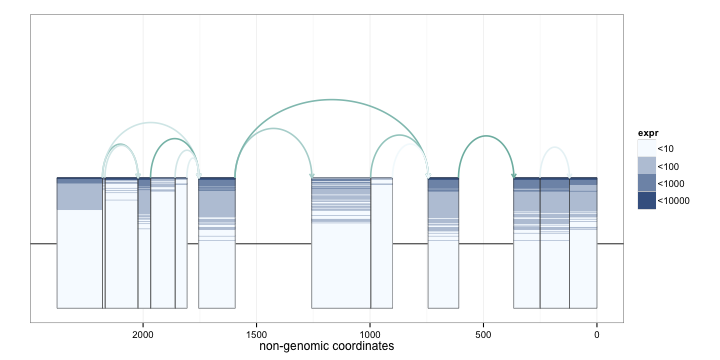
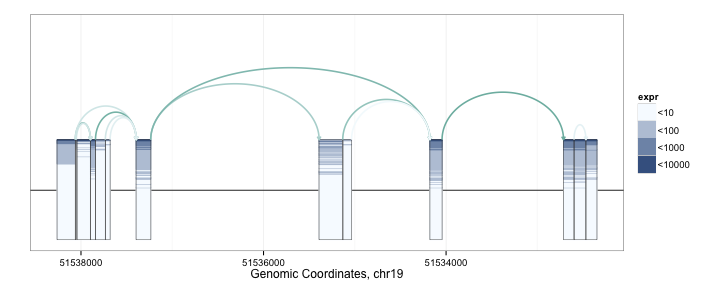
update README

diff --git a/README.md b/README.md
@@ -5,20 +5,82 @@ spliceclust
 
 ## Contents
 1. [Introduction](#intro)
-2. [Plotting Examples](#plotting)
+2. [SpliceGraHM Examples](#splicegrahm)
+3. [SpliceGraLP Examples](#splicegralp)
+4. [SplicePCA Examples](#splicepca)
 
 
 ## <a name="intro"></a> Introduction
 ___Note that this document is still under construction.___  
 
-This package may be used to plot expression across exons and splice junctions
-across a large cohort of samples.
+This package may be used to plot exon and splice junction coverage across a large cohort
+of RNA-seq samples. The plotting approach is based on the idea of transposing
+expression heatmaps on splicing diagrams. The plots are generated using the `ggplot2` and
+`ggbio` packages.
 
 
 
-## <a name="plotting"></a> Plotting Examples
+## <a name="splicegrahm"></a> SpliceGraHM Examples
 
-First we must construct a `concomp` object.
+First we must construct a `concomp` object from a `GRangesList` object with exon and junction
+boundaries and corresponding coverage values. For illustration purposes, we use a previously
+constructed `GRanges` object, `klk12_gr1`, containing annotation information for the KLK12 gene
+locus along with coverage for 177 lung squamous cell carcinoma samples.  
+
+The exon and junction boundaries, and the corresponding kind label are given by:  
+
+
+```r
+ranges(klk12_gr1)
+```
+
+```
+## IRanges of length 25
+##         start      end width names
+## [1]  51532348 51532468   121 33127
+## [2]  51532468 51532598   131 33128
+## [3]  51532469 51532597   129 33129
+## [4]  51532598 51532713   116 33130
+## [5]  51532713 51534044  1332 33131
+## ...       ...      ...   ...   ...
+## [21] 51537896 51538051   156 33147
+## [22] 51537896 51538062   167 33148
+## [23] 51537897 51538040   144 33149
+## [24] 51538051 51538061    11 33150
+## [25] 51538062 51538261   200 33151
+```
+
+```r
+mcols(klk12_gr1)$kind
+```
+
+```
+##  [1] "e" "j" "e" "e" "j" "e" "j" "j" "j" "e" "e" "j" "e" "j" "j" "j" "j"
+## [18] "e" "e" "e" "j" "j" "e" "e" "e"
+```
+
+In addition to `kind`, the `klk12_gr1` metadata columns also include the gene name (`gIdx`),
+gene boundaries (`gStart`, `gStop`), and coverage values for the 177 samples.  
+
+
+```r
+mcols(klk12_gr1)[1:5, 1:6]
+```
+
+```
+## DataFrame with 5 rows and 6 columns
+##          gIdx    gStart     gStop        kind        s1        s2
+##   <character> <numeric> <numeric> <character> <numeric> <numeric>
+## 1    gene9317  51532348  51538261           e   2.60331   5.32231
+## 2    gene9317  51532348  51538261           j   0.00000   0.00000
+## 3    gene9317  51532348  51538261           e   2.59690  10.37210
+## 4    gene9317  51532348  51538261           e   2.15517   7.28448
+## 5    gene9317  51532348  51538261           j   0.00000   7.00000
+```
+
+To construct the `concomp` (connected component) object for analysis, we first convert the
+`GRanges` object into a `GRangesList` object of length 2, corresponding to exon and junction
+information.  
 
 
 ```r
@@ -26,30 +88,184 @@ klk12_gl <- split(klk12_gr1, mcols(klk12_gr1)$kind)
 klk12_cc <- concomp(klk12_gl)
 ```
 
-We first demonstrate the default and basic SpliceGraHM (Splice Graph Heat Map) plotting procedure.
+
+We first demonstrate the default and __basic SpliceGraHM__ (Splice Graph Heat Map) plotting procedure.
 
 
 ```r
 splicegrahm(klk12_cc)
 ```
 
-![plot of chunk unnamed-chunk-3](figure/unnamed-chunk-3-1.png) 
+![plot of chunk unnamed-chunk-5](figure/unnamed-chunk-5-1.png) 
 
 In the plot above, each box arranged horizontally corresponds to a contiguous exonic region
-along the genome. 
+along the genome. Each box is colored by 177 horizontal lines, showing the expression level
+for the 177 samples being analyzed. Note that the exons are plotted along genomic coordinates.  
 
+In addition to the boxes, the plot contains arrows which correspond to a splicing events with
+sufficient support in the data (e.g. at least 5 samples each with at least 5 reads spanning the splice
+junction). The arrows are colored such that darker arrows were present in a higher proportion of the
+177 samples.  
+
+The SpliceGraHM name is in reference to the fact that after removing the spacing between each exon
+the plot simply reduces to a __standard heatmap__ of expression along a single gene. The corresponding
+figure after removing the intronic gaps is shown below. The rectangle of color is a heatmap with rows
+and columns corresponding to samples and exons, respectively.  
 
 
 ```r
-splicegrahm(klk12_cc, genomic = FALSE)
+splicegrahm(klk12_cc, genomic = FALSE, ex_use = 1, log_base = 2)
 ```
 
-![plot of chunk unnamed-chunk-4](figure/unnamed-chunk-4-1.png) 
+![plot of chunk unnamed-chunk-6](figure/unnamed-chunk-6-1.png) 
 
+It is possible to show the coverage of each splice junction using a similar convention with rows
+corresponding to samples, and with color being used for coverage.
 
 
 ```r
-splicegrahm(klk12_cc, genomic = FALSE)
+splicegrahm(klk12_cc, genomic = FALSE, j_incl = TRUE)
 ```
 
-![plot of chunk unnamed-chunk-5](figure/unnamed-chunk-5-1.png) 
+![plot of chunk unnamed-chunk-7](figure/unnamed-chunk-7-1.png) 
+
+If annotation information is available, e.g. from UCSC KnownGenes, these can be passed to the
+function to add an additional track to the plot. The appropriate `GRangesList` object to be
+passed is illustrated in the following example.
+
+
+```r
+suppressPackageStartupMessages(library("TxDb.Hsapiens.UCSC.hg19.knownGene"))
+txdb <- TxDb.Hsapiens.UCSC.hg19.knownGene
+isActiveSeq(txdb)[seqlevels(txdb)] <- FALSE
+isActiveSeq(txdb)[paste0("chr", 1:22)] <- TRUE
+exbytx <- exonsBy(txdb, "tx")
+
+splicegrahm(klk12_cc, genomic = TRUE, j_incl = TRUE, txlist = exbytx)
+```
+
+![plot of chunk unnamed-chunk-8](figure/unnamed-chunk-8-1.png) 
+
+If gene names are desired, the following can be used to match the transcript ID
+in `txdb` against gene symbols (e.g. in `org.Hs.eg.db`).
+
+
+```r
+suppressPackageStartupMessages(library("org.Hs.eg.db"))
+
+splicegrahm(klk12_cc, genomic = TRUE, j_incl = TRUE, txlist = exbytx,
+            txdb = txdb, orgdb = org.Hs.eg.db)
+```
+
+![plot of chunk unnamed-chunk-9](figure/unnamed-chunk-9-1.png) 
+
+
+
+## <a name="splicepca"></a> SplicePCA Examples
+
+Principal Component Analysis (PCA) is a popular exploratory analysis tool for studying low rank
+structure in high-dimensional datasets by projecting the data along the directions of greatest
+variation. These directions of greatest variation are often referred to as the PC "loading"
+directions. The `splicepca` function is written to visualize the loading vectors of splicing
+data.  
+
+As an example, the following code can be used to visualize the first 3 PC loadings in the
+KLK12 dataset from above.
+
+
+```r
+splicepca(klk12_cc, npc = 3)
+```
+
+![plot of chunk unnamed-chunk-10](figure/unnamed-chunk-10-1.png) 
+
+In the above PC loadings plot, red and blue are used to denote the magnitude of the PC loadings
+for each exon and splice junction. From the plot above, we see that the greatest source of variation
+in expression at the KLK12 gene locus is the overall expression of the gene. However, the second
+PC loading shows interesting behavior where the primary source of variation is attributable to the
+expression of the central exon. Scrolling up a little to the UCSC KnownGenes shown included above,
+we see that the presence or absence of the central exon actually corresponds to differing isoforms
+annotated to this gene.
+
+
+
+## <a name="sessioninfo"></a> Session Information
+
+
+```r
+sessionInfo()
+```
+
+```
+## R version 3.1.1 (2014-07-10)
+## Platform: x86_64-apple-darwin13.3.0 (64-bit)
+## 
+## locale:
+## [1] en_US.UTF-8/en_US.UTF-8/en_US.UTF-8/C/en_US.UTF-8/en_US.UTF-8
+## 
+## attached base packages:
+##  [1] grid      stats4    parallel  stats     graphics  grDevices utils    
+##  [8] datasets  methods   base     
+## 
+## other attached packages:
+##  [1] spliceclust_0.2                        
+##  [2] org.Hs.eg.db_3.0.0                     
+##  [3] RSQLite_1.0.0                          
+##  [4] DBI_0.3.1                              
+##  [5] TxDb.Hsapiens.UCSC.hg19.knownGene_3.0.0
+##  [6] BSgenome.Hsapiens.UCSC.hg19_1.4.0      
+##  [7] BSgenome_1.34.1                        
+##  [8] rtracklayer_1.26.2                     
+##  [9] annotate_1.44.0                        
+## [10] XML_3.98-1.1                           
+## [11] SplicingGraphs_1.6.0                   
+## [12] Rgraphviz_2.10.0                       
+## [13] graph_1.44.1                           
+## [14] GenomicAlignments_1.2.1                
+## [15] Rsamtools_1.18.2                       
+## [16] Biostrings_2.34.1                      
+## [17] XVector_0.6.0                          
+## [18] GenomicFeatures_1.18.3                 
+## [19] AnnotationDbi_1.28.1                   
+## [20] Biobase_2.26.0                         
+## [21] RColorBrewer_1.1-2                     
+## [22] ggbio_1.14.0                           
+## [23] ggplot2_1.0.0                          
+## [24] GenomicRanges_1.18.4                   
+## [25] GenomeInfoDb_1.2.4                     
+## [26] IRanges_2.0.1                          
+## [27] S4Vectors_0.4.0                        
+## [28] BiocGenerics_0.12.1                    
+## 
+## loaded via a namespace (and not attached):
+##  [1] acepack_1.3-3.3          base64enc_0.1-2         
+##  [3] BatchJobs_1.5            BBmisc_1.8              
+##  [5] BiocParallel_1.0.0       biomaRt_2.22.0          
+##  [7] biovizBase_1.14.1        bitops_1.0-6            
+##  [9] brew_1.0-6               checkmate_1.5.1         
+## [11] cluster_1.15.3           codetools_0.2-9         
+## [13] colorspace_1.2-4         compiler_3.1.1          
+## [15] devtools_1.6.1           dichromat_2.0-0         
+## [17] digest_0.6.8             evaluate_0.5.5          
+## [19] fail_1.2                 foreach_1.4.2           
+## [21] foreign_0.8-62           formatR_1.0             
+## [23] Formula_1.1-2            GGally_0.5.0            
+## [25] gridExtra_0.9.1          gtable_0.1.2            
+## [27] Hmisc_3.14-6             htmltools_0.2.6         
+## [29] igraph_0.7.1             iterators_1.0.7         
+## [31] knitr_1.8                labeling_0.3            
+## [33] lattice_0.20-29          latticeExtra_0.6-26     
+## [35] MASS_7.3-35              munsell_0.4.2           
+## [37] nnet_7.3-8               OrganismDbi_1.8.0       
+## [39] plyr_1.8.1               proto_0.3-10            
+## [41] RBGL_1.42.0              Rcpp_0.11.3             
+## [43] RCurl_1.95-4.5           reshape_0.8.5           
+## [45] reshape2_1.4.1           rmarkdown_0.4.2         
+## [47] roxygen2_4.1.0           rpart_4.1-8             
+## [49] rstudioapi_0.2           scales_0.2.4            
+## [51] sendmailR_1.2-1          splines_3.1.1           
+## [53] stringr_0.6.2            survival_2.37-7         
+## [55] tools_3.1.1              VariantAnnotation_1.12.8
+## [57] xtable_1.7-4             zlibbioc_1.12.0
+```
+
